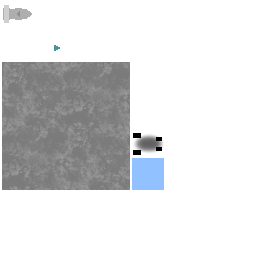
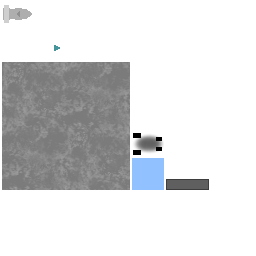
Walls added

Changed region(s): [[0.625, 0.6875, 0.8125, 0.75]]

diff --git a/core/src/info/quadtree/ld41/Wall.java b/core/src/info/quadtree/ld41/Wall.java
@@ -1,6 +1,7 @@
 package info.quadtree.ld41;
 
 import com.badlogic.gdx.graphics.g2d.TextureRegion;
+import com.badlogic.gdx.math.MathUtils;
 import com.badlogic.gdx.math.Vector2;
 import com.badlogic.gdx.physics.box2d.BodyDef;
 
@@ -23,5 +24,23 @@ public class Wall extends Actor {
     @Override
     protected Vector2 getSize() {
         return new Vector2(1500, 1);
+    }
+
+    @Override
+    public void render() {
+        float segLength = 4;
+        float segWidth = 1;
+
+        Vector2 cp = new Vector2();
+        for (int i=0;i<1500/segLength;++i){
+            cp.x = (i - 1500/segLength/2) * segLength;
+            cp.y = 0.5f;
+
+            cp.rotateRad(body.getAngle());
+
+            cp.add(body.getPosition());
+
+            LD41.s.batch.draw(LD41.s.barrier, cp.x - 0.5f, cp.y - 0.5f, 0.5f, 0.5f, 1.0f, 1.0f, segLength, segWidth, MathUtils.radiansToDegrees * body.getAngle());
+        }
     }
 }

diff --git a/core/src/info/quadtree/ld41/LD41.java b/core/src/info/quadtree/ld41/LD41.java
@@ -33,6 +33,7 @@ public class LD41 extends ApplicationAdapter implements InputProcessor {
 	public Sprite solid;
 	public Sprite wallOfDeath;
 	public Sprite road;
+	public Sprite barrier;
 
 	public TextureAtlas atlas;
 
@@ -50,6 +51,7 @@ public class LD41 extends ApplicationAdapter implements InputProcessor {
 		solid = atlas.createSprite("solid");
 		wallOfDeath = atlas.createSprite("wall_of_death");
 		road = atlas.createSprite("road");
+		barrier = atlas.createSprite("barrier1");
 
 		batch = new SpriteBatch();
 		origProj = batch.getProjectionMatrix().cpy();

diff --git a/core/src/info/quadtree/ld41/Car.java b/core/src/info/quadtree/ld41/Car.java
@@ -47,7 +47,7 @@ public class Car extends Actor {
         if (hasAi) runAi();
 
         if (!hasAi){
-            System.out.println(body.getPosition());
+            //System.out.println(body.getPosition());
         }
 
         --shootOdds;
